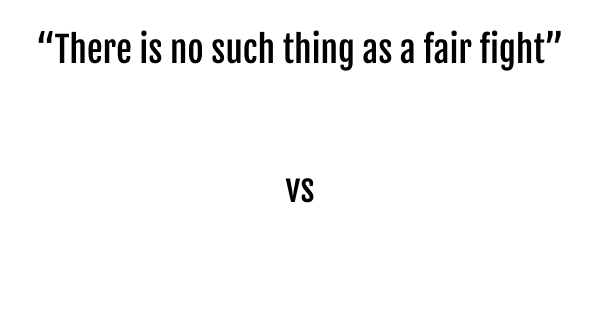
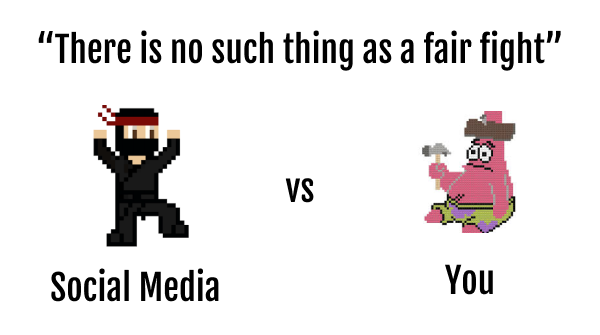
fixed recommendation with header image from custom text

diff --git a/_posts/blogs/2020-09-21-social-media-apps.md b/_posts/blogs/2020-09-21-social-media-apps.md
@@ -2,8 +2,8 @@
 layout: post
 title:  Social media is evil but not optional
 date:   2020-04-14
-image:  /images/social-media-fight.jpg
-tags:   [Product]
+image:  /images/social-media-fight.png
+tags:   [Culture]
 permalink: /post/social-media-evil-not-optional
 categories: blog
 ---
